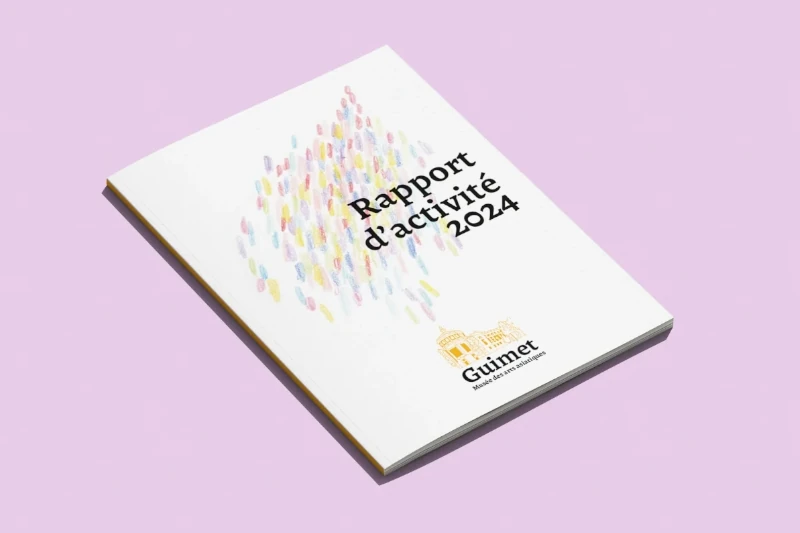
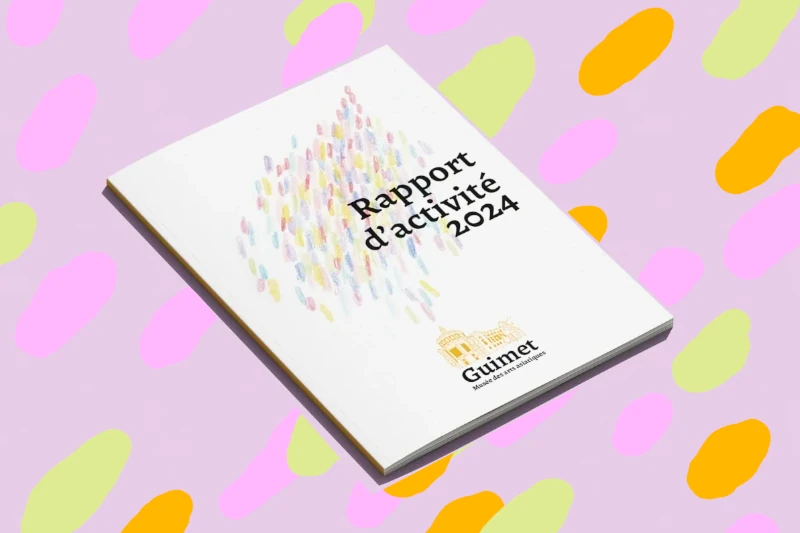
change d'images accueil

diff --git a/docs/template.html b/docs/template.html
@@ -65,15 +65,19 @@
 			index: index }],
 
 			["page3", { titre:"Dans le jardin - Album jeunesse - 2021" , content: 
-			[{ image: "images/jardin/scan171.jpg" },
-			{ image: "images/jardin/scan172.jpg" },
-			{ image: "images/jardin/scan173.jpg" },
-			{ image: "images/jardin/scan174.jpg" },
-			{ image: "images/jardin/scan175.jpg" },
-			{ image: "images/jardin/scan176.jpg" },
-			{ image: "images/jardin/scan177.jpg" },
-			{ image: "images/jardin/scan178.jpg" },
-			{ image: "images/jardin/scan179.jpg" }
+			[{ image: "images/jardin/visuel_1.webp" },
+			{ image: "images/jardin/visuel_2.webp" },
+			{ image: "images/jardin/visuel_3.webp" },
+			{ image: "images/jardin/visuel_4.webp" },
+			{ image: "images/jardin/visuel_5.webp" },
+			{ image: "images/jardin/visuel_6.webp" },
+			{ image: "images/jardin/visuel_7.webp" },
+			{ image: "images/jardin/visuel_8.webp" },
+			{ image: "images/jardin/visuel_9.webp" },
+			{ image: "images/jardin/visuel_10.webp" },
+			{ image: "images/jardin/visuel_11.webp" },
+			{ image: "images/jardin/visuel_12.webp" },
+			{ image: "images/jardin/visuel_13.webp" }
 			], 
 			index: index }],
 

diff --git a/docs/index.html b/docs/index.html
@@ -51,7 +51,7 @@
 					<div class="text">Artworks (Dessins/Peintures) - 2026</div>
 				</div>
 				<div class="container" onclick="window.location.href='template.html?page=page19';" >
-					<img class="grille-item" src="images/capybio/visuel_4.webp">
+					<img class="grille-item" src="images/capy.webp">
 					<div class="text">CapyBio - Identité visuelle Cosmétique - Juin 2026</div>
 				</div>
 				<div class="container" onclick="window.location.href='template.html?page=page18';" >

diff --git a/docs/en_index.html b/docs/en_index.html
@@ -50,7 +50,7 @@
 					<div class="text">Artwork (Drawings/Paintings) - 2026</div>
 				</div>
 				<div class="container" onclick="window.location.href='template.html?page=page19';" >
-					<img class="grille-item" src="images/capybio/visuel_4.webp">
+					<img class="grille-item" src="images/capy.webp">
 					<div class="text">CapyBio - Cosmetic Branding & Packaging - June 2026</div>
 				</div>
 				<div class="container" onclick="window.location.href='template.html?page=page18';" >
